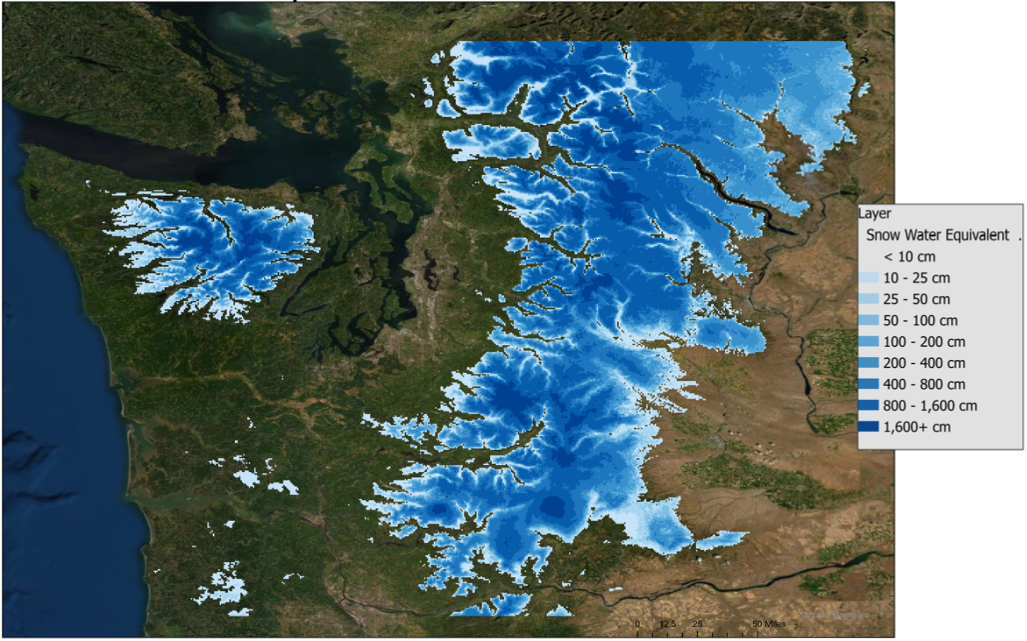
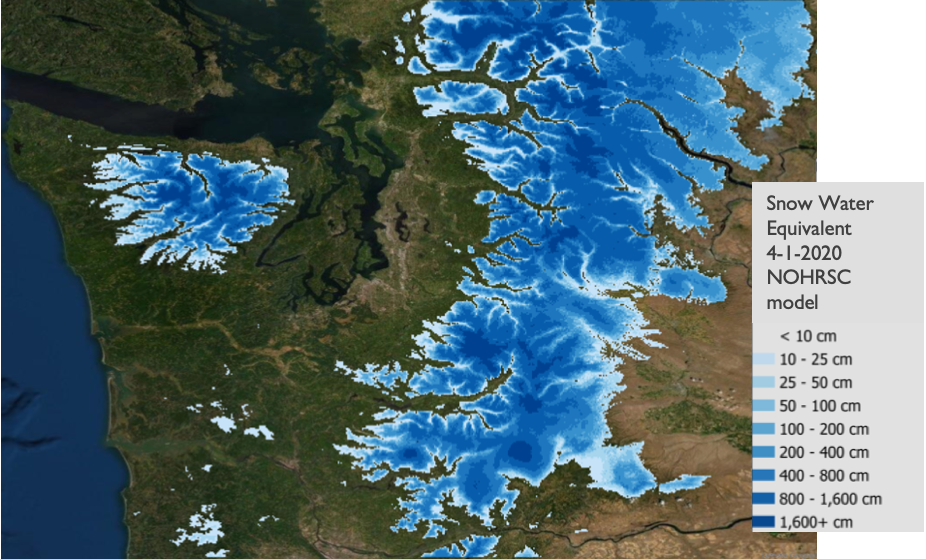
Updates 5/26

diff --git a/research.html b/research.html
@@ -44,9 +44,7 @@
         <br>
         <h4>Thomas Kakatsakis</h3>
         <br>
-        <img src="img/img3.jpeg" alt="" width=90% height=90%><br><br><br>
-        <br>
-        <hr><h2>Table of Contents</h2><br>
+        <img src="img/img3.jpeg" alt="" width=90% height=90%><br><br>
         <p></p>
         <br><br>
         <hr><h2>Abstract</h2><br>
@@ -57,21 +55,26 @@
         </p><br>
         <hr><h2>Research Context</h2><br>
         <p>The impacts of increased temperatures and the future of the backcountry recreation industry in Washington fills a niche subject area. Reviewing the existing literature, relevant publications place the hydrological processes of the Pacific Northwest into the context of the Intergovernmental Panel on Climate Change’s reports (Roop et. al. 2020, Snover et. al. 2019). Additionally, academic studies quantify the observed and expected changes to snowpack in mountain environments (Helgason 2016; Sproles et. al. 2013; Mote et. al. 2018), though models vary greatly in their inputs and results and there is little consensus as to the exact timeframes or extent to which snowpack in the region will decrease. <br><br>
-        <img src="img/Winter_Activity_Stats.png" alt="" width=40% height=40%><br><br><br>
 
         From the perspective of the ski industry, Washington is highly vulnerable to the impacts of increased temperatures. Protect Our Winters, a climate advocate nonprofit, has published several reports describing the economic losses to the ski industry due to climate change. In response to low snow years, they have found that Washington has shown a 31% reduction of skier visits and an average difference of negative 92 million dollars value added, which is the greatest and second greatest loss of any U.S. state respectively. (Hagenstad et. al. 2018) Little research has been published addressing the impacts of backcountry specific recreation, and my project seeks to fill this gap. The unprecedented increase in backcountry usage this year has been well documented from news sources such as the Seattle Times (Scruggs 2020), however this outlook for the industry in the face of climate change has not been addressed. No comprehensive published research has tied together the decreased snowpack of Washington, the economic contributions of backcountry recreation in the state, and the changing industry and its future.</p>
         <br><br>
         <hr><h2>Methods</h2><br>
-        <p>A mixed-methods, holistic research approach is applied to encorproate existing resources about changes in the snowpack of the Cascades Mountains and backcountry recreation within them, and provide analysis of the outlook of the industry. Existing hydrological models, climate scenarios and snow-science research is drawn upon to develop a picture of the long-term state of the snowpack, and the impacts of anthropogenic climate change in the region. Geospatial analysis is applied to remotely sensed and modelled snow data from several sources. This data is visualized, manipulated, and mapped across several spatial and temporal resolutions within Washington, through a combination of Python data analysis and ArcGIS spatial analysis. In addition to a quantitative examiniation of availabile snow data, the backcountry Winter sports industry of Washington state is discussed including changing demographics and usage, economic impacts, and avalanche hazard and risk mitigation. Personal experience in the backcountry and a passion for the outdoors is the lens through which existing media, research, first-hand perspectives and other mediums are considered to understand the changes occuring to the backcountry recreation industry. This wide range of multidisciplinary studies and information is used to contextualize the significance of backcountry recreation in Washington State and consider how it will inevietably change in the near future. The results of these methods are displayed on this website and presented at the University of Washington 2021 Undergraduate Research Symposium.<br><br>
+        <p>A mixed-methods, holistic research approach is applied to encorproate existing resources about changes in the snowpack of the Cascades Mountains and backcountry recreation within them, and provide analysis of the outlook of the industry. Existing hydrological models, climate scenarios and snow-science research is drawn upon to develop a picture of the long-term state of the snowpack, and the impacts of anthropogenic climate change in the region. Geospatial analysis is applied to remotely sensed and modelled snow data from several sources. This data is visualized, manipulated, and mapped across several spatial and temporal resolutions within Washington, through a combination of data analysis using Python Jupyter Notebooks and ArcGIS Pro spatial analysis. In addition to a quantitative examiniation of availabile snow data, the backcountry Winter sports industry of Washington state is discussed including changing demographics and usage, economic impacts, and avalanche hazard and risk mitigation. Personal experience in the backcountry and a passion for the outdoors is the lens through which existing media, research, first-hand perspectives and other mediums are considered to understand the changes occuring to the backcountry recreation industry. This wide range of multidisciplinary studies and information is used to contextualize the significance of backcountry recreation in Washington State and consider how it will inevietably change in the near future. The results of these methods are displayed on this website and presented at the University of Washington 2021 Undergraduate Research Symposium.<br><br>
         </p>
 
         <br><br>
-        <hr><h2>Results</h2><br><br><br>
+        <hr><h2>Findings</h2><br>
+        <p>Substantial and ongoing changes are observed in the study subjects, areas, and time frames being considered. The snowpack and hydrology of the Cascades mountains has undoutably been disrupted as a result of human created climate change. The most notable indicators of these impacts are the overall measured decreases in end of Winter season snow water equivilent and Winter snowfall totals at individual sites, observed decrease in snow depth and cover from remotely sensed data and snow models, and the well-recorded massive retreat of glaciers across the range. The ramifications of these changes are diminshed fresh-water sources from snowpack runoff, increased risk of wildfire due to reduced soil moisture increasing fire potential, and losses in backcountry Winter recreation from a lack of snow. <br><br>
+        Backcountry Winter recreation in Washington is an evolving activity with substantial economic and cultural value. <br>...   </p><br><br>
 
 
-        <hr><h2>Discussion and Conclusion</h2><br><br><br>
+        <hr><h2>Discussion and Conclusion</h2><br>
+        <p>...</p>
+
         <hr><h2>References</h2>
-        <p>Colorado Avalanche Information Center. “US Avalanche Fatalities.” avalanche.state.co.us/accidents/us/.<br><br>
+
+        <p>Birkeland, Karl. Greene, Ethan. Logan, Spensor. In Response to Avalance Fatalities in the United States by Jekich et al, Wilderness & Environmental Medicine, Volume 28, Issue 4, 2017, Pages 380-382, ISSN 1080-6032, https://doi.org/10.1016/j.wem.2017.06.009.<br><br>
+Colorado Avalanche Information Center. “US Avalanche Fatalities.” avalanche.state.co.us/accidents/us/.<br><br>
 Casola, Joseph H., et al. “Assessing the Impacts of Global Warming on Snowpack in the Washington Cascades.” AMETSOC, American Meteorological Society, 15 May 2009, journals.ametsoc.org/view/journals/clim/22/10/2008jcli2612.1.xml.<br><br>
 Castebrunet, H., et al. 2014. "Projected changes of snow conditions and avalanche activity in a warming climate: the French Alps over the 2020--2050 and 2070--2100 periods." The Cryosphere, vol. 8, no. 5.<br><br>
 Currier, W., Thorson, T., Lundquist, J. 2017. Independent Evaluation of Frozen Precipitation from WRF and PRISM in the Olympic Mountains. American Meteorological Society: Journal of Hydrometeorology.<br><br>

diff --git a/snowpack.html b/snowpack.html
@@ -43,8 +43,9 @@
           <h1 style="font-size:50px;font-family:geneva;">Cascades Mountain Snowpack</h1>
           <img src="img/img5.jpeg" alt="" width=90% height=90%>
           <p>Hidden Lakes Fire Lookout plastered with snow</p><br>
-          <h2>Introduction</h2><br><br><br>
-          <h2>Data Sources</h2><br><br><br>
+          <h2>Introduction</h2><br>
+          <p></p><br><br>
+          <h2>Data Sources</h2><br>
           <h4>Snow Telemetry Sites (SNOTEL)</h3>
           <img src="img/Snotel_terrain.png" alt="" width=60% height=60%><br>
           <h>Washington State Snow Telemetry (SNOTEL) sites with elevation.</h><br><br>
@@ -52,37 +53,37 @@
           <a href="https://www.wcc.nrcs.usda.gov/snow/"target="_blank">SNOTEL data and products link.</a></p><br>
           <h4>National Operational Hydrologic Remote Sensing Center Data (NOHRSC)</h3><br>
           <img src="img/4-1-20_SWE.png" alt="" width=60% height=60%><br>
-          <p></p><br>
+          <p>The National Operational Hydrologic Remote Sensing Center Data (NOHRSC) generates modelled snow and hydrological data which incorporates a sophisticated set of inputs and provides coverage for much of the continent with daily temporal resolution stretching back several decades. Data can be visualized at the following <a href="https://www.nohrsc.noaa.gov/nsa/"target="_blank">data portal</a>, and can be downloaded from the <a href="https://www.nohrsc.noaa.gov/archived_data/"target="_blank">data archive</a>. Data can be prepared for analysis using ArcGIS software from the following <a href="https://nsidc.org/data/g02158"target="_blank">methodology</a>. This data is used in my research to visualize snowpack in the region and consider changes between years on a fixed date.</p><br>
           <h4>Current Snow Depth Visualization (US Forest Service</h3><br>
           <img src="img/FS_Map.png" alt="" width=60% height=60%><br>
           <a href="https://www.fs.fed.us/r5/webmaps/SierraSnowDepth/"target="_blank">Link to FS map.</a><br><br>
-          <p>This map displays current snow depth according to the National Oceanic and Atmospheric Administration (NOAA) National Snow Analyses (NSA), which is a product of the NOHRSC. It is hosted by the USFS Pacific Southwest branch and defaults to the Sierra mountains of California, however the map shows the entire Western United States including Washington state. It is an effective visualization of the NOHRSC data described above.</p>
-
-
-
-
-          <h2>Methods</h2><br><br><br>
+          <p>This map displays current snow depth according to the National Oceanic and Atmospheric Administration (NOAA) National Snow Analyses (NSA), which is a product of the NOHRSC. It is hosted by the USFS Pacific Southwest branch and defaults to the Sierra mountains of California, however the map shows the entire Western United States including Washington state. It is an effective visualization of the NOHRSC data described above.</p><br>
+          <h2>Analysis</h2><br>
           <p>CEE 498 Geospatial Data Analysis, Final Project:<br>
           <a href="https://github.com/UW-GDA/Cascades-Snowpack-Kakatsakis" target="_blank">https://github.com/UW-GDA/Cascades-Snowpack-Kakatsakis</a><br><br>
-          <h2>Figures</h2><br><br><br>
+          <br><br>
           <img src="img/WA_Snotel.png" alt="" width=60% height=60%><br>
-          <h>Washington SNOTEL sites by elevation classification</h><br>
+          <h>Washington SNOTEL sites by elevation classification.</h><br><br>
           <img src="img/April1_SWE_Passes.png" alt="" width=60% height=60%><br>
-          <h>Snow Water Equivalent (SWE) from SNOTEL for end of season snowpack (April 1) at Stevens, Blewett, and Rainy Pass 1983-2020. Linear regression showing decreases in SWE<br><br>
+          <h>Snow Water Equivalent (SWE) from SNOTEL for end of season snowpack (April 1) at Stevens, Blewett, and Rainy Pass 1983-2020. Linear regression showing decreases in SWE.<br><br>
           <img src="img/Snoqualmie_Pass_Snowfall.png" alt="" width=60% height=60%><br>
           <h>Longterm snowfall totals at Snoqualmie Pass. Source: Washington State Department of Transportation.<br><br>
-          <img src="img/SWE_2010.png" alt="" width=60% height=60%><br>
-          <h>Washington State SWE equivilent, April 1, 2010. NOHRSC modelled data</h>
-          <img src="img/SWE_2015.png" alt="" width=60% height=60%><br>
-          <h>Washington State SWE equivilent, April 1, 2015. NOHRSC modelled data</h>
+          <img src="img/swe_loss.png" alt="" width=60% height=60%><br>
+          <h>Estimated Snow Water Equivalent (SWE) loss from 2020-2050. Created using Raster manipulation of 2020 data, assuming a 40% decrease in SWE.<br><br><br>
+          <h4>Estimates from Relevant Literature</h4>
+          <p>This project utilizes and relies on the research, models and estimates of expert individuals and organizations in associated fields. The following visualizations summarize some of the predicted impacts for Pacific Northwest snowpack throughout the 21st century.</p><br>
+          <img src="img/roop.png" alt="" width=60% height=60%><br><br>
+          <h>Roop et. al. 2020. An effective visualization of the observed hydrological impacts of climate change for Washington state. The University of Washington Climate Impacts Group prepared this in their descriptions of the implications for Washington state from the The Intergovernmental Panel on Climate Change’s Special Report on the Ocean and Cryosphere. These changes specific to the region are not merely predicted or hypothetical-- they are ongoing proccesses with discernable impacts.<br><br><br>
+          <img src="img/pow2.png" alt="" width=70% height=70%><br><br>
+          <h>Hagestad, Protect Our Winters, 2018. Summary of end of century predicted snowpack impacts for both the Cascades and the Sierra Nevada. A frightening and massive decrease in snowpack predicted by one of the most influential orgnizations in the field, Protect Our Winters. POW is a nonprofit that focuses its efforts on legislation regarding climate change.</h><br><br>
+          <img src="img/mote1.png" alt="" width=60% height=60%><br>
+          <h>Mote et al. 2018. An examination of dramatic decline of snowpack in the Western US. </h><br><br>
           <img src="img/noaa_temp_change.png" alt="" width=60% height=60%><br>
-          <h>Credit National Oceanic and Atmospheric Administration (NOAA)<br><br>
+          <h>Credit National Oceanic and Atmospheric Administration (NOAA). Longterm changes in mean temperature show a warming across the United States, and undeniable evidence of warming in the Winter season. <br><br>
           <img src="img/noaa_precip_change.png" alt="" width=60% height=60%></h><br>
-          <h>Credit National Oceanic and Atmospheric Administration (NOAA)</h><br>
+          <h>Credit National Oceanic and Atmospheric Administration (NOAA). Longterm changes in Winter precipitation can greatly affect snowpack in different areas. Volaitle changes as a result of climate change creates an unpredictable outlook for snow falling as precipitation in the long term. </h><br><br>
           <img src="img/Draught.png" alt="" width=60% height=60%></h><br>
-          <h>Credit National Oceanic and Atmospheric Administration (NOAA)</h><br>
-
-          new normals link: <a href="https://www.ncei.noaa.gov/news/Upcoming-NOAA-2020-Climate-Normals"target="_blank">NOAA Climate Normals</a><br><br>
+          <h>Credit National Oceanic and Atmospheric Administration (NOAA). Draught status for the United States at the end of Winter season in 2021. Washington remains relatively unaffected this year in part due to a healthy La Nina snowpack, however much of the Western United States is currently in a draught. During low snow years this outlook will become increasingly dangerous. Water shortage and wildfire hazard are major implications of draught, contributed to by snowpack.</h><br><br>
 
           <h2>Conclusion</h2><br><br><br>
         </div>

diff --git a/recreation.html b/recreation.html
@@ -48,6 +48,12 @@
           <p>Backcountry recreation on snow requires adequate snow depth within mountainous areas, and is an increasingly popular activity as well as a highly lucrative component of the winter sports industry. A greatly reduced snowpack will have significant ramifications for backcountry recreation, an activity which will be considered for its economic and societal significance in Washington state. The maritime snowpack of the Washington Cascades is especially susceptible to climate change due to mild temperatures hovering at or near the freezing level, and lower elevation recreation locations are at the greatest risk in the short term. The extent of glaciers in the Cascades Range has already decreased substantially, decreasing 56% in the North Cascades from 1900 to 2009 (Snover et al 2020), and many will disappear completely as ablation from warm temperatures continuously outweighs accumulation from snowfall. Glaciated areas contribute to the uniquely long winter recreation season in the Cascades which stretches into the summer months, and as they melt this will no longer be possible. Additionally, many of the most commonly accessed backcountry recreation areas in the site are located at relatively low elevations, and are at a considerable risk of winter snowfall becoming rain. The ski areas of Washington all have base areas between 3000 and 5000 feet, and as the snowline incrementally increases these areas as well as the subsequent nearby backcountry areas are in jeopardy of too little snowpack to be viable.<br><br>
           The rapid changes in snowpack are juxtaposed with increasingly popular backcountry recreation. More people than ever are backcountry skiing, snowboarding, snowmobiling, snowshoeing, or other forms of recreation on snow. Unprecendented volumes of individuals have taken to the mountains, overcrowding Sno-Parks and other access points. Ski touring specifically has seen an unprecedented increase in popularity in 2020, in part due to uncertainty and restrictions at ski resorts due to the COVID-19 pandemic and a growing outdoor movement. In tandem with the greatly increased usage is an troubling increase of individuals who are uneducated and unprepared for the inherent hazards of snowy mountains. Avalanche education is an essential component of Winter travel, especially in the characteristically steep Cascades mountains. Washington has only suffered a single avalanche fatality in 2021, its first in several years. However outside of Washington this year has been the most tragic on record stretching back to 1910, in part due to the greatest volume of outdoor recreationalist. The industry will undoubtedly undergo significant changes as a result of increased usage and a diminishing snowpack, and the future of winter backcountry recreation in the Washington Cascades is addressed in this site.</p>
 
+          <h2>Value of Backcountry Recreation</h2>
+          <img src="img/Winter_Activity_Stats.png" alt="" width=40% height=40%><br>
+          <h>Fletcher, Earth Economics, 2020. This chart shows the estimated economic value of Winter recreation in Washington state.</h><br>
+          <img src="img/pow1.png" alt="" width=40% height=40%><br>
+          <h>Hagestad, Protect Our Winters, 2018. Graphic showing the total estimated value of the US Winter Recreation industry.</h><br>
+
           <h2>Dimished Snowpack and Backcountry Recreation</h2><br><br>
           <p>To do</p>
 
@@ -131,8 +137,11 @@
           <blockquote><p>
           "I guess first, I’d say don’t read too much into the short term lack of fatalities. WA still ranks 3rd nationally (1950-2020) for avalanche deaths. While, we’ve recently experienced fewer accidents, it's too early to call this a trend. Second, I’m often reminded that the difference between 0 fatalities and 6 fatalities is razor thin. Our region experienced numerous avalanche involvements and near misses this season. I can think of several instances in which travelers were caught, carried, and buried but recovered by their companions. Third, statistics don’t matter if you’re the “1”. The families, friends, and communities who suffered from the recent avalanche fatalities we did experience likely won’t find much solace in the lack of other deaths. I say all this not to be negative, but to remain vigilant and proactive. At NWAC we strive to produce accurate, consistent, and approachable forecast every single day. Our dedication to increasing our forecasting capabilities remains unchanged. We rely heavily on you, the users to prepare, plan, travel safely, and debrief to reduce avalanche fatalities in our region. For myself, this looks very much like the process I first learned in my AIARE Level 1. Anyone who’s traveled with me knows, I’m insistent on completing a thorough trip plan. This means a systematic process where I walk through and write down (in my blue book) information regarding the days conditions, forecasts, mindset, and plan. I think it's easy to believe that book and process are only for a L1 course. And, I’d imagine few people re-engage with that process after the class. However, I believe it's an integral part of me being a responsible member of my team and the larger backcountry community. Again, that L1 process (and book) are the backbone of what I do every single day before I head to the snow. While, a process and trip planning won’t fully eliminate fatalities, I do believe it sets all of us up for the best chance of success with intentional hazard recognition, observations, and terrain avoidance."
         </p></blockquote><br>
+         <img src="img/Fatalities_State.jpeg" alt="" width=70% height=70%>
+          <img src="img/Fatality_number.jpg" alt="" width=70% height=70%>
+          <p>Birkeland 2017</p>
 
-          <img src="img/Fatalities_State.jpeg" alt="" width=70% height=70%>
+
 
 
           <h2></h2>

diff --git a/about.html b/about.html
@@ -50,6 +50,7 @@
            <li>University of Washington Geography Department</li>
            <li>Dr. Steven Walters - Earth and Space Sciences Department</li>
            <li>Dr. David Shean - Civil and Envirornmental Engineering Department</li>
+           <li>Dallas Glass - Northwest Avalanche Center</li>
            <li>Devyn Duvall</li>
            <li>Xan Dindinger-Hill</li>
          </ul>
